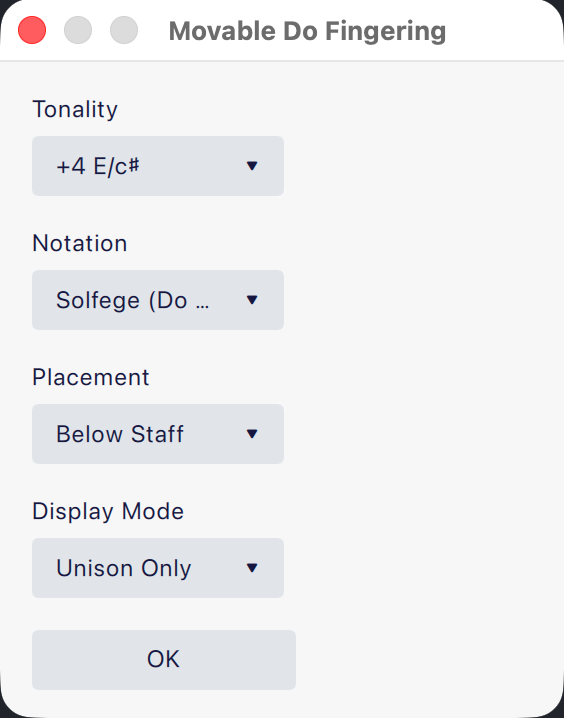
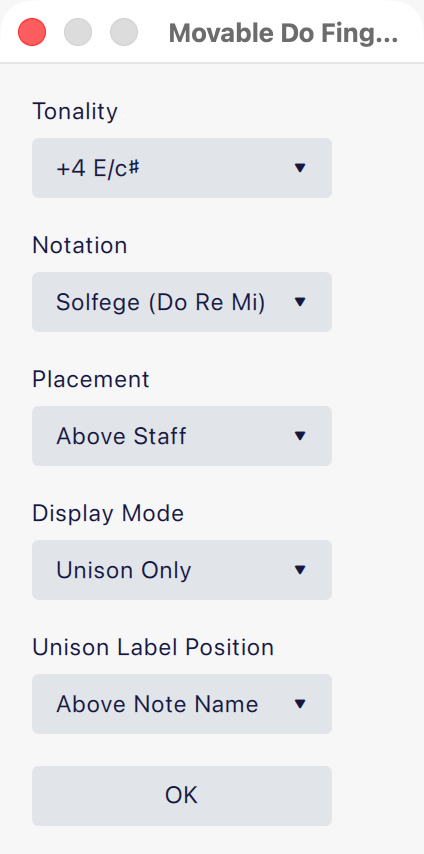
feat: enhance unison handling with customizable label position in Movable Do Fingering

diff --git a/MovableDoFingering.qml b/MovableDoFingering.qml
@@ -18,7 +18,7 @@ import Muse.UiComponents 1.0
 
 MuseScore {
     version: "1.5"
-    description: "Inserts movable do note names with unison filtering and custom part names"
+    description: "Inserts movable do note names with smart unison suffix handling"
     menuPath: "Plugins.Movable Do Fingering"
     pluginType: "dialog"
 
@@ -34,6 +34,7 @@ MuseScore {
 
     property real fontSizeMini: 0.7
     property real elementType: Element.FINGERING
+    property real dialogControlWidth: 150
 
     function getUnisonPartNames(note, segment, currentTrack) {
         var unisonParts = [];
@@ -75,7 +76,7 @@ MuseScore {
         return unisonParts;
     }
 
-    function nameChord(notes, text, small, movableDoOffset, notationIndex, placementIndex, segment, displayModeIndex, currentTrack) {
+    function nameChord(notes, text, small, movableDoOffset, notationIndex, placementIndex, segment, displayModeIndex, unisonLabelPositionIndex, currentTrack, trackState) {
         var tpcToTonalPitch= {
             "31": "A##", "19": "B", "7":  "Cb", "24": "A#", "12": "Bb", "0":  "Cbb",
             "29": "G##", "17": "A", "5":  "Bbb", "22": "G#", "10": "Ab", "27": "F##",
@@ -112,8 +113,10 @@ MuseScore {
             
             var unisonParts = getUnisonPartNames(notes[i], segment, currentTrack);
             var isUnison = unisonParts.length > 0;
+            var currentUnisonStr = unisonParts.join(", ");
 
             if (displayModeIndex === 1 && !isUnison) {
+                trackState.lastUnison = "";
                 continue;
             }
 
@@ -122,23 +125,39 @@ MuseScore {
             if (typeof notes[i].tpc === "undefined") return
             var tonalPitch = tpcToTonalPitch[String((parseInt(notes[i].tpc) - movableDoOffset + 35 + 1) % 35 - 1)]
             name = tonalPitchToMovableDo[tonalPitch][notationIndex]
-            if (notes[i].tieBack !== null) continue
-
-            var suffix = "";
-            if (isUnison) {
-                suffix = " (" + unisonParts.join(", ") + ")";
+            if (notes[i].tieBack !== null) {
+                continue; 
             }
 
-            text.text = name + suffix + oct + text.text
+            var partLabel = "";
+            if (isUnison) {
+                if (currentUnisonStr !== trackState.lastUnison) {
+                    partLabel = "(" + currentUnisonStr + ")";
+                }
+                trackState.lastUnison = currentUnisonStr;
+            } else {
+                trackState.lastUnison = "";
+            }
+
+            var renderedText = name + oct;
+            if (partLabel !== "") {
+                if (unisonLabelPositionIndex === 0) {
+                    renderedText = partLabel + "\n" + renderedText;
+                } else {
+                    renderedText = renderedText + "\n" + partLabel;
+                }
+            }
+
+            text.text = renderedText + text.text
         }
         text.placement = (placementIndex === 0) ? Placement.ABOVE : Placement.BELOW;
     }
 
-    function renderGraceNoteNames(cursor, list, text, small, movableDoOffset, notationIndex, placementIndex, segment, displayModeIndex, currentTrack) {
+    function renderGraceNoteNames(cursor, list, text, small, movableDoOffset, notationIndex, placementIndex, segment, displayModeIndex, unisonLabelPositionIndex, currentTrack, trackState) {
         if (list.length > 0) {
             for (var chordNum = 0; chordNum < list.length; chordNum++) {
                 var chord = list[chordNum]
-                nameChord(chord.notes, text, small, movableDoOffset, notationIndex, placementIndex, segment, displayModeIndex, currentTrack)
+                nameChord(chord.notes, text, small, movableDoOffset, notationIndex, placementIndex, segment, displayModeIndex, unisonLabelPositionIndex, currentTrack, trackState)
                 if (text.text) cursor.add(text)
                 text.offsetX = chord.posX
                 if (text.text) text = newElement(elementType)
@@ -147,7 +166,7 @@ MuseScore {
         return text
     }
 
-    function nameNotesMovableDo(tonalityText, notationIndex, placementIndex, displayModeIndex) {
+    function nameNotesMovableDo(tonalityText, notationIndex, placementIndex, displayModeIndex, unisonLabelPositionIndex) {
         var movableDoOffset = +tonalityText.split(' ')[0]
         var cursor = curScore.newCursor()
         var startStaff, endStaff, endTick
@@ -170,6 +189,9 @@ MuseScore {
                 cursor.voice = voice
                 cursor.staffIdx = staff
                 var currentTrack = staff * 4 + voice;
+                
+                var trackState = { lastUnison: "" };
+
                 if (fullScore) cursor.rewind(0)
          
                 while (cursor.segment && (fullScore || cursor.tick < endTick)) {
@@ -188,11 +210,11 @@ MuseScore {
                             }
                         }
 
-                        text = renderGraceNoteNames(cursor, leadingLifo, text, true, movableDoOffset, notationIndex, placementIndex, cursor.segment, displayModeIndex, currentTrack)
-                        nameChord(cursor.element.notes, text, false, movableDoOffset, notationIndex, placementIndex, cursor.segment, displayModeIndex, currentTrack)
+                        text = renderGraceNoteNames(cursor, leadingLifo, text, true, movableDoOffset, notationIndex, placementIndex, cursor.segment, displayModeIndex, unisonLabelPositionIndex, currentTrack, trackState)
+                        nameChord(cursor.element.notes, text, false, movableDoOffset, notationIndex, placementIndex, cursor.segment, displayModeIndex, unisonLabelPositionIndex, currentTrack, trackState)
                         if (text.text) cursor.add(text)
                         if (text.text) text = newElement(elementType)
-                        text = renderGraceNoteNames(cursor, trailingFifo, text, true, movableDoOffset, notationIndex, placementIndex, cursor.segment, displayModeIndex, currentTrack)
+                        text = renderGraceNoteNames(cursor, trailingFifo, text, true, movableDoOffset, notationIndex, placementIndex, cursor.segment, displayModeIndex, unisonLabelPositionIndex, currentTrack, trackState)
                     }
                     cursor.next()
                 }
@@ -240,7 +262,7 @@ MuseScore {
             Column {
                 id: grid
                 spacing: 16
-                width: 220
+                width: dialogControlWidth
                 anchors.fill: parent
                 anchors.margins: 16
                 
@@ -249,6 +271,7 @@ MuseScore {
                     StyledTextLabel { text: qsTr('Tonality') }
                     StyledDropdown {
                         id: tonality
+                        width: dialogControlWidth
                         model: ["+7 C♯/a♯", "+6 F♯/d♯", "+5 B/g♯", "+4 E/c♯", "+3 A/f♯", "+2 D/b", "+1 G/e", "0 C/a", "-1 F/d", "-2 B♭/g", "-3 E♭/c", "-4 A♭/f", "-5 D♭/b♭", "-6 G♭/e♭", "-7 C♭/a♭"]
                         currentIndex: 7
                         onActivated: function(index, value) { currentIndex = index }
@@ -260,6 +283,7 @@ MuseScore {
                     StyledTextLabel { text: qsTr('Notation') }
                     StyledDropdown {
                         id: notation
+                        width: dialogControlWidth
                         model: ["Letters-vowel", "Letters", "Numeric", "Solfege (Do Re Mi)"]
                         currentIndex: 3
                         onActivated: function(index, value) { currentIndex = index }
@@ -271,6 +295,7 @@ MuseScore {
                     StyledTextLabel { text: qsTr('Placement') }
                     StyledDropdown {
                         id: placementDir
+                        width: dialogControlWidth
                         model: ["Above Staff", "Below Staff"]
                         currentIndex: 1 
                         onActivated: function(index, value) { currentIndex = index }
@@ -282,18 +307,32 @@ MuseScore {
                     StyledTextLabel { text: qsTr('Display Mode') }
                     StyledDropdown {
                         id: displayMode
+                        width: dialogControlWidth
                         model: ["All Notes", "Unison Only"]
                         currentIndex: 0
                         onActivated: function(index, value) { currentIndex = index }
                     }
                 }
 
+                Column {
+                    spacing: 6
+                    StyledTextLabel { text: qsTr('Unison Label Position') }
+                    StyledDropdown {
+                        id: unisonLabelPosition
+                        width: dialogControlWidth
+                        model: ["Above Note Name", "Below Note Name"]
+                        currentIndex: 1
+                        onActivated: function(index, value) { currentIndex = index }
+                    }
+                }
+
                 FlatButton {
                     id: button
+                    width: dialogControlWidth
                     text: qsTr("OK")
                     onClicked: {
                         curScore.startCmd()
-                        nameNotesMovableDo(tonality.currentText, notation.currentIndex, placementDir.currentIndex, displayMode.currentIndex)
+                        nameNotesMovableDo(tonality.currentText, notation.currentIndex, placementDir.currentIndex, displayMode.currentIndex, unisonLabelPosition.currentIndex)
                         curScore.endCmd()
                         _quit()
                     }
@@ -308,5 +347,6 @@ MuseScore {
         property alias notation: notation.currentIndex
         property alias placement: placementDir.currentIndex
         property alias displayMode: displayMode.currentIndex
+        property alias unisonLabelPosition: unisonLabelPosition.currentIndex
     }
 }

diff --git a/README.md b/README.md
@@ -22,6 +22,9 @@ It adds movable-do note names as **fingering texts** (not staff text), so you ca
 - Supports display mode:
   - `All Notes`
   - `Unison Only` (only labels notes that are in unison with other staves, and appends part names in parentheses)
+- In `Unison Only`, supports unison part-label position:
+  - `Above Note Name`
+  - `Below Note Name`
 - Automatically suggests tonality from current key signature when opening the dialog.
 - Remembers notation, placement, and display mode preferences.
 
@@ -40,7 +43,7 @@ Run from **Plugins → Composing/Arranging Tools → Movable Do Fingering**.
 
 <img alt="Dialog" src="readme-assets/dialog.png" width="300" />
 
-1. Choose **Tonality**, **Notation**, **Placement**, and **Display Mode**.
+1. Choose **Tonality**, **Notation**, **Placement**, **Display Mode**, and **Unison Label Position**.
 2. Click **OK** to insert labels.
 
 Behavior notes:
